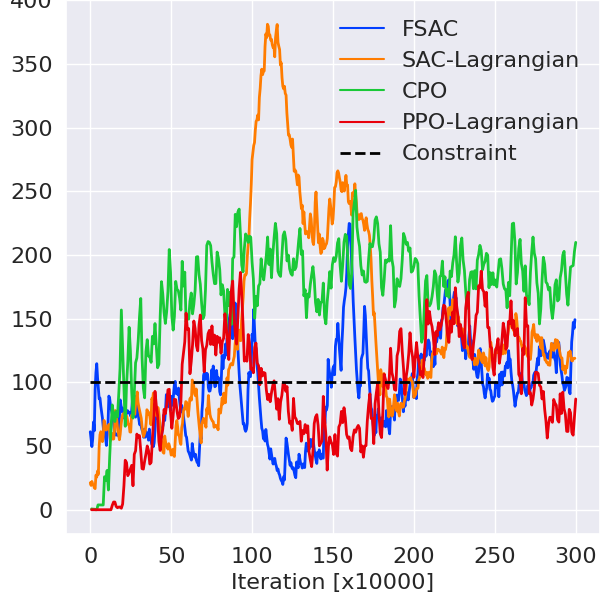
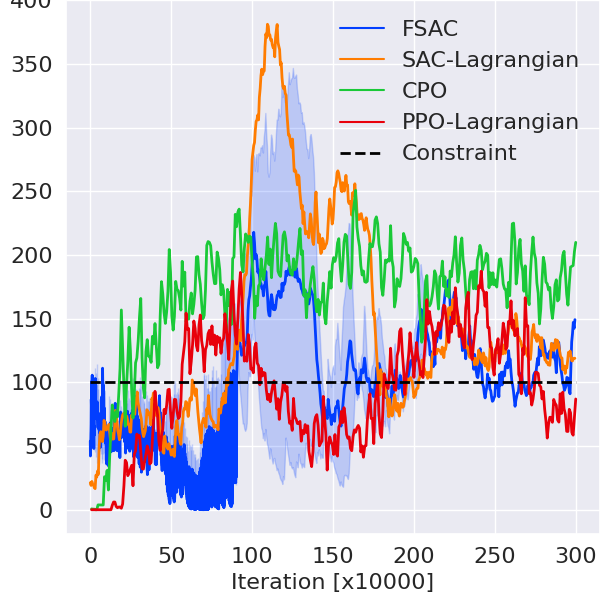
update plot

Changed region(s): [[0.15, 0.12, 0.72, 0.87]]

diff --git a/train_scripts/train_script4fsac.py b/train_scripts/train_script4fsac.py
@@ -123,7 +123,7 @@ def built_FSAC_parser():
     # buffer
     parser.add_argument('--max_buffer_size', type=int, default=500000)
     parser.add_argument('--replay_starts', type=int, default=3000)
-    parser.add_argument('--replay_batch_size', type=int, default=2048)
+    parser.add_argument('--replay_batch_size', type=int, default=1024)
     parser.add_argument('--replay_alpha', type=float, default=0.6)
     parser.add_argument('--replay_beta', type=float, default=0.4)
     parser.add_argument('--buffer_log_interval', type=int, default=40000)
@@ -150,7 +150,7 @@ def built_FSAC_parser():
     parser.add_argument('--policy_num_hidden_units', type=int, default=256)
     parser.add_argument('--policy_hidden_activation', type=str, default='elu')
     parser.add_argument('--policy_out_activation', type=str, default='linear')
-    parser.add_argument('--policy_lr_schedule', type=list, default=[3e-5, 400000, 3e-6])
+    parser.add_argument('--policy_lr_schedule', type=list, default=[3e-5, 500000, 3e-6])
     parser.add_argument('--lam_lr_schedule', type=list, default=[5e-6, 100000, 3e-6])
     parser.add_argument('--alpha', default='auto')  # 'auto' 0.02
     alpha = parser.parse_args().alpha
@@ -161,8 +161,8 @@ def built_FSAC_parser():
     parser.add_argument('--double_Q', type=bool, default=True)
     parser.add_argument('--target', type=bool, default=True)
     parser.add_argument('--tau', type=float, default=0.005)
-    parser.add_argument('--delay_update', type=int, default=4)
-    parser.add_argument('--dual_ascent_interval', type=int, default=12)
+    parser.add_argument('--delay_update', type=int, default=2)
+    parser.add_argument('--dual_ascent_interval', type=int, default=6)
     parser.add_argument('--deterministic_policy', type=bool, default=False)
     parser.add_argument('--action_range', type=float, default=1.0)
     parser.add_argument('--mu_bias', type=float, default=0.0)
@@ -183,9 +183,9 @@ def built_FSAC_parser():
     parser.add_argument('--num_workers', type=int, default=NUM_WORKER)
     parser.add_argument('--num_learners', type=int, default=NUM_LEARNER)
     parser.add_argument('--num_buffers', type=int, default=NUM_BUFFER)
-    parser.add_argument('--max_weight_sync_delay', type=int, default=30)
+    parser.add_argument('--max_weight_sync_delay', type=int, default=300)
     parser.add_argument('--grads_queue_size', type=int, default=25)
-    parser.add_argument('--grads_max_reuse', type=int, default=25)
+    parser.add_argument('--grads_max_reuse', type=int, default=8)
     parser.add_argument('--eval_interval', type=int, default=10000) # 1000
     parser.add_argument('--save_interval', type=int, default=200000) # 200000
     parser.add_argument('--log_interval', type=int, default=100) # 100

diff --git a/data_process/lineplot.py b/data_process/lineplot.py
@@ -61,7 +61,7 @@ def help_func():
     tag2plot = ['episode_cost']
     alg_list = ['FSAC','SAC-Lagrangian', 'CPO', 'PPO-Lagrangian'] # 'SAC',
     lbs = ['FSAC','SAC-Lagrangian',  'CPO', 'PPO-Lagrangian'] # 'SAC',
-    task = ['PointButton']
+    task = ['CarGoal']
     #todo: CarGoal: sac
     #todo: CarButton: sac choose better fac
     # todo: CarPush: ???
